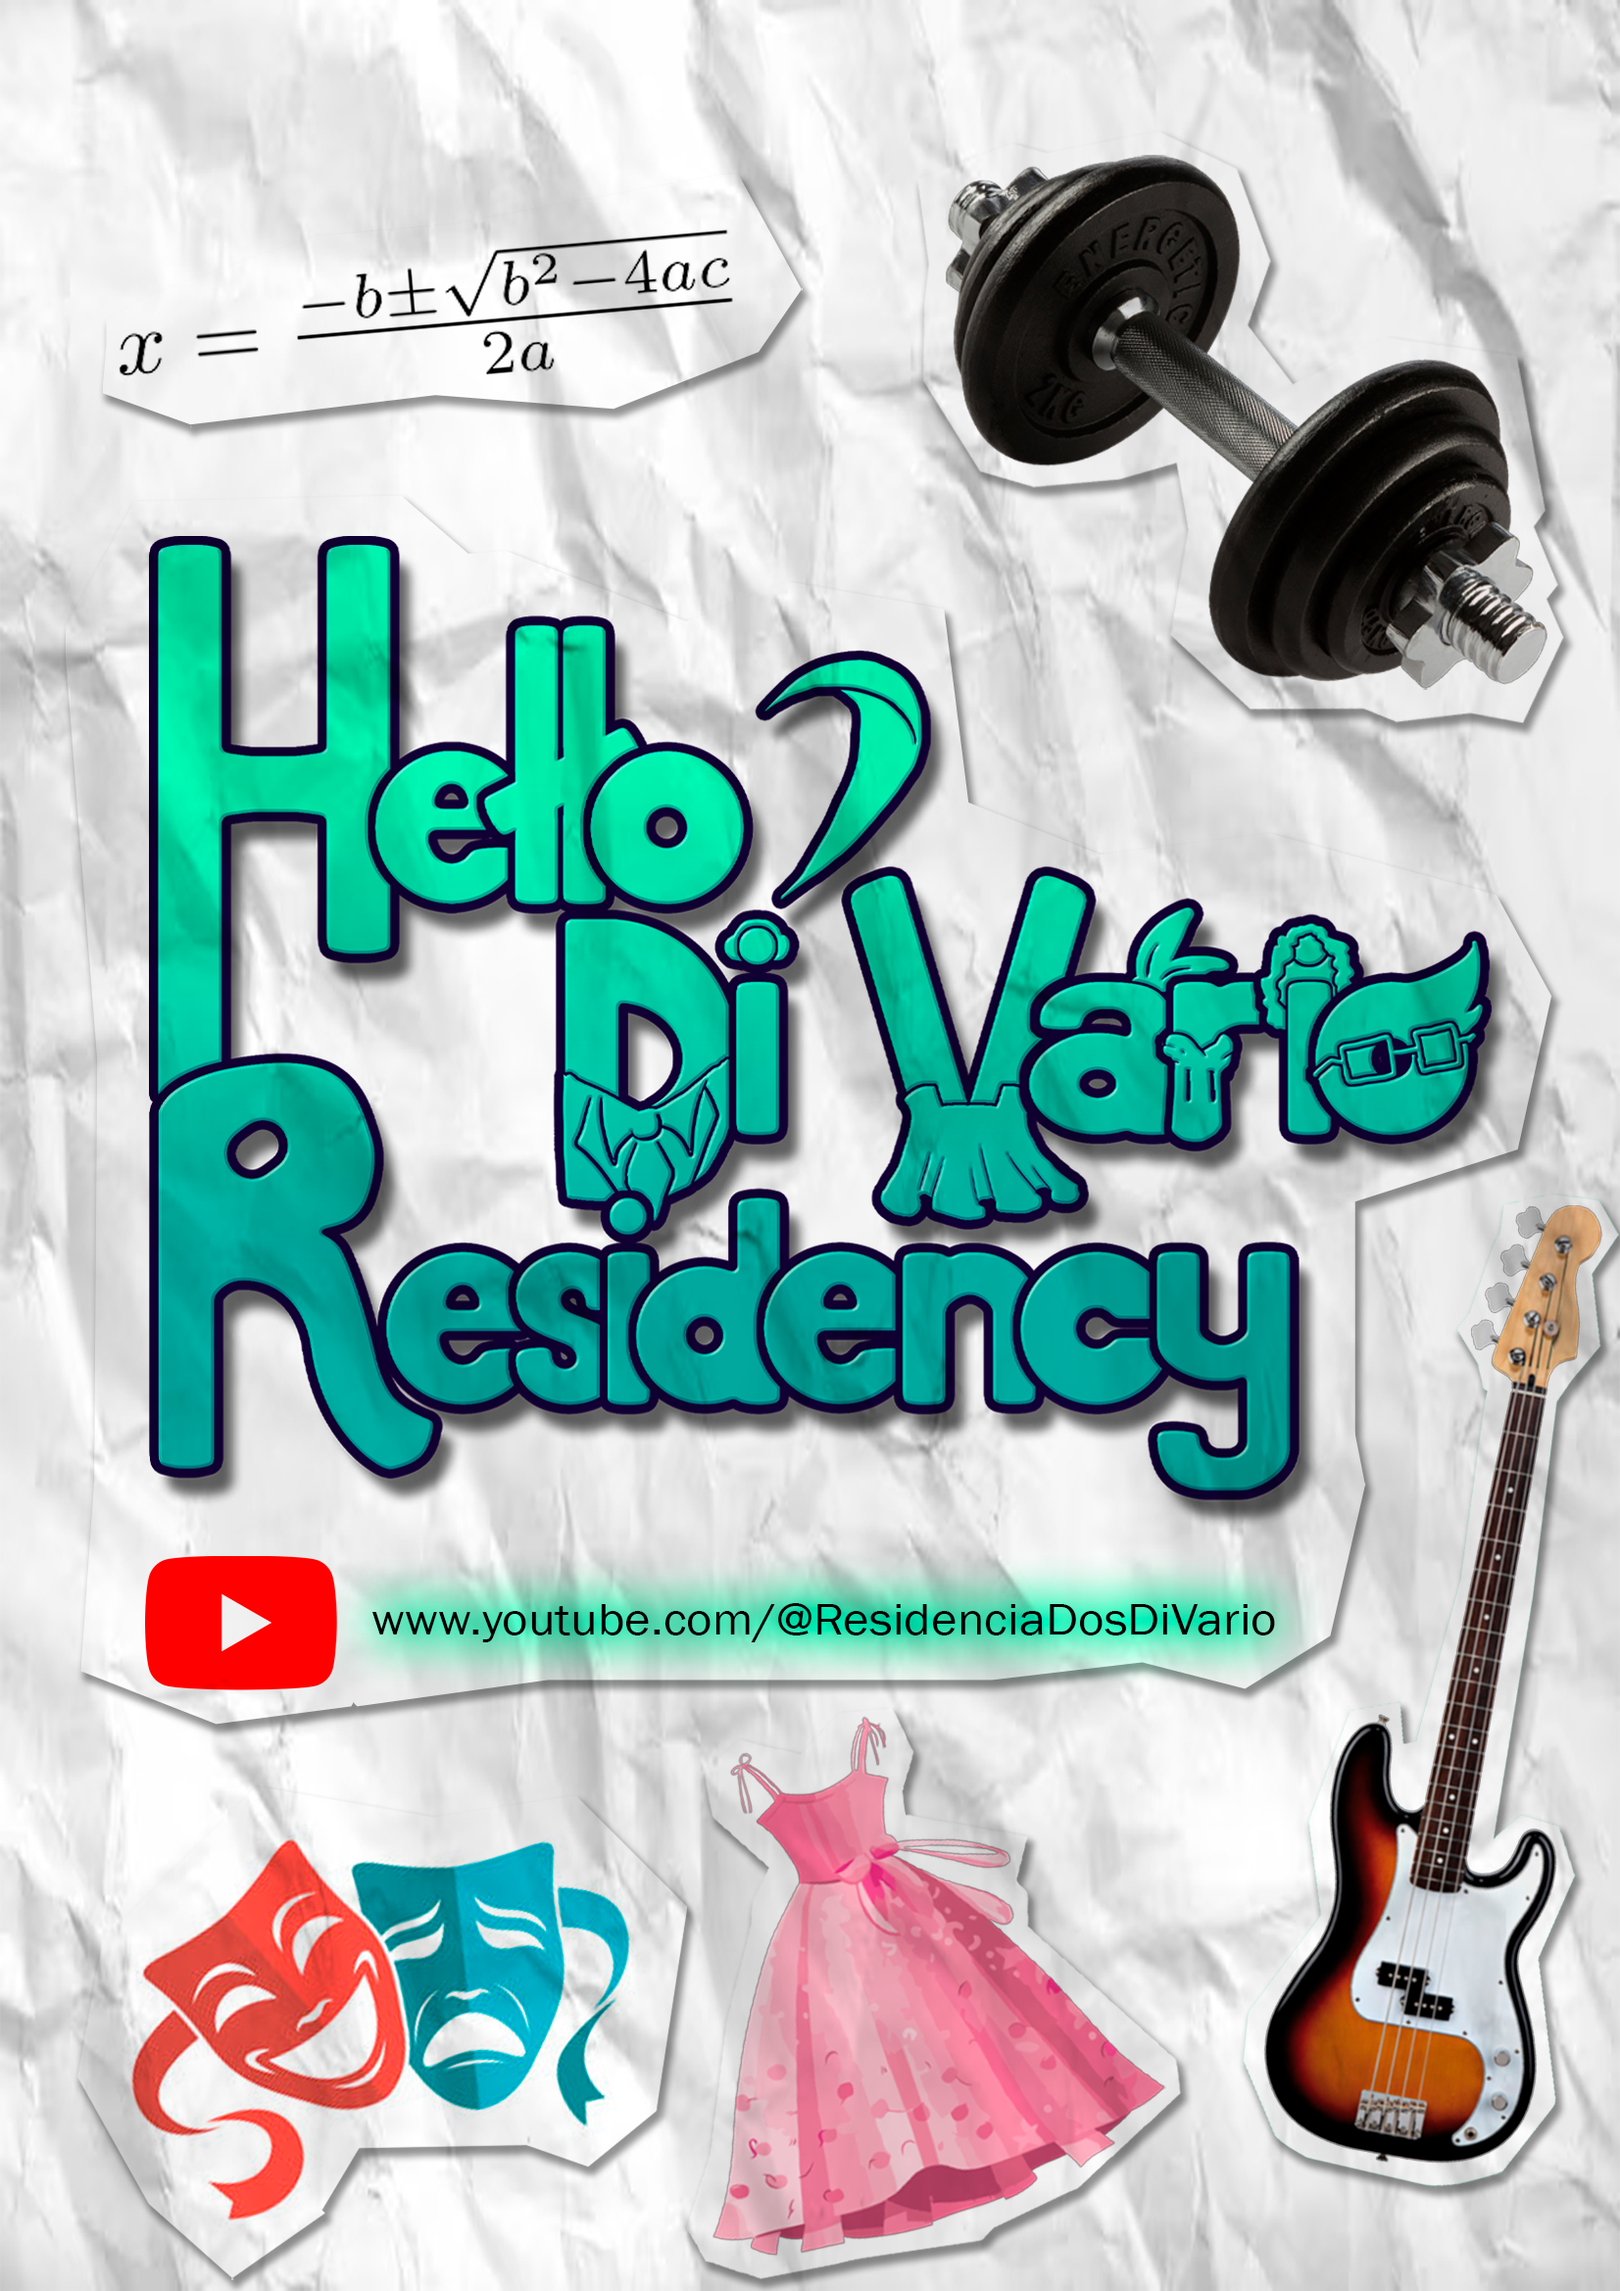
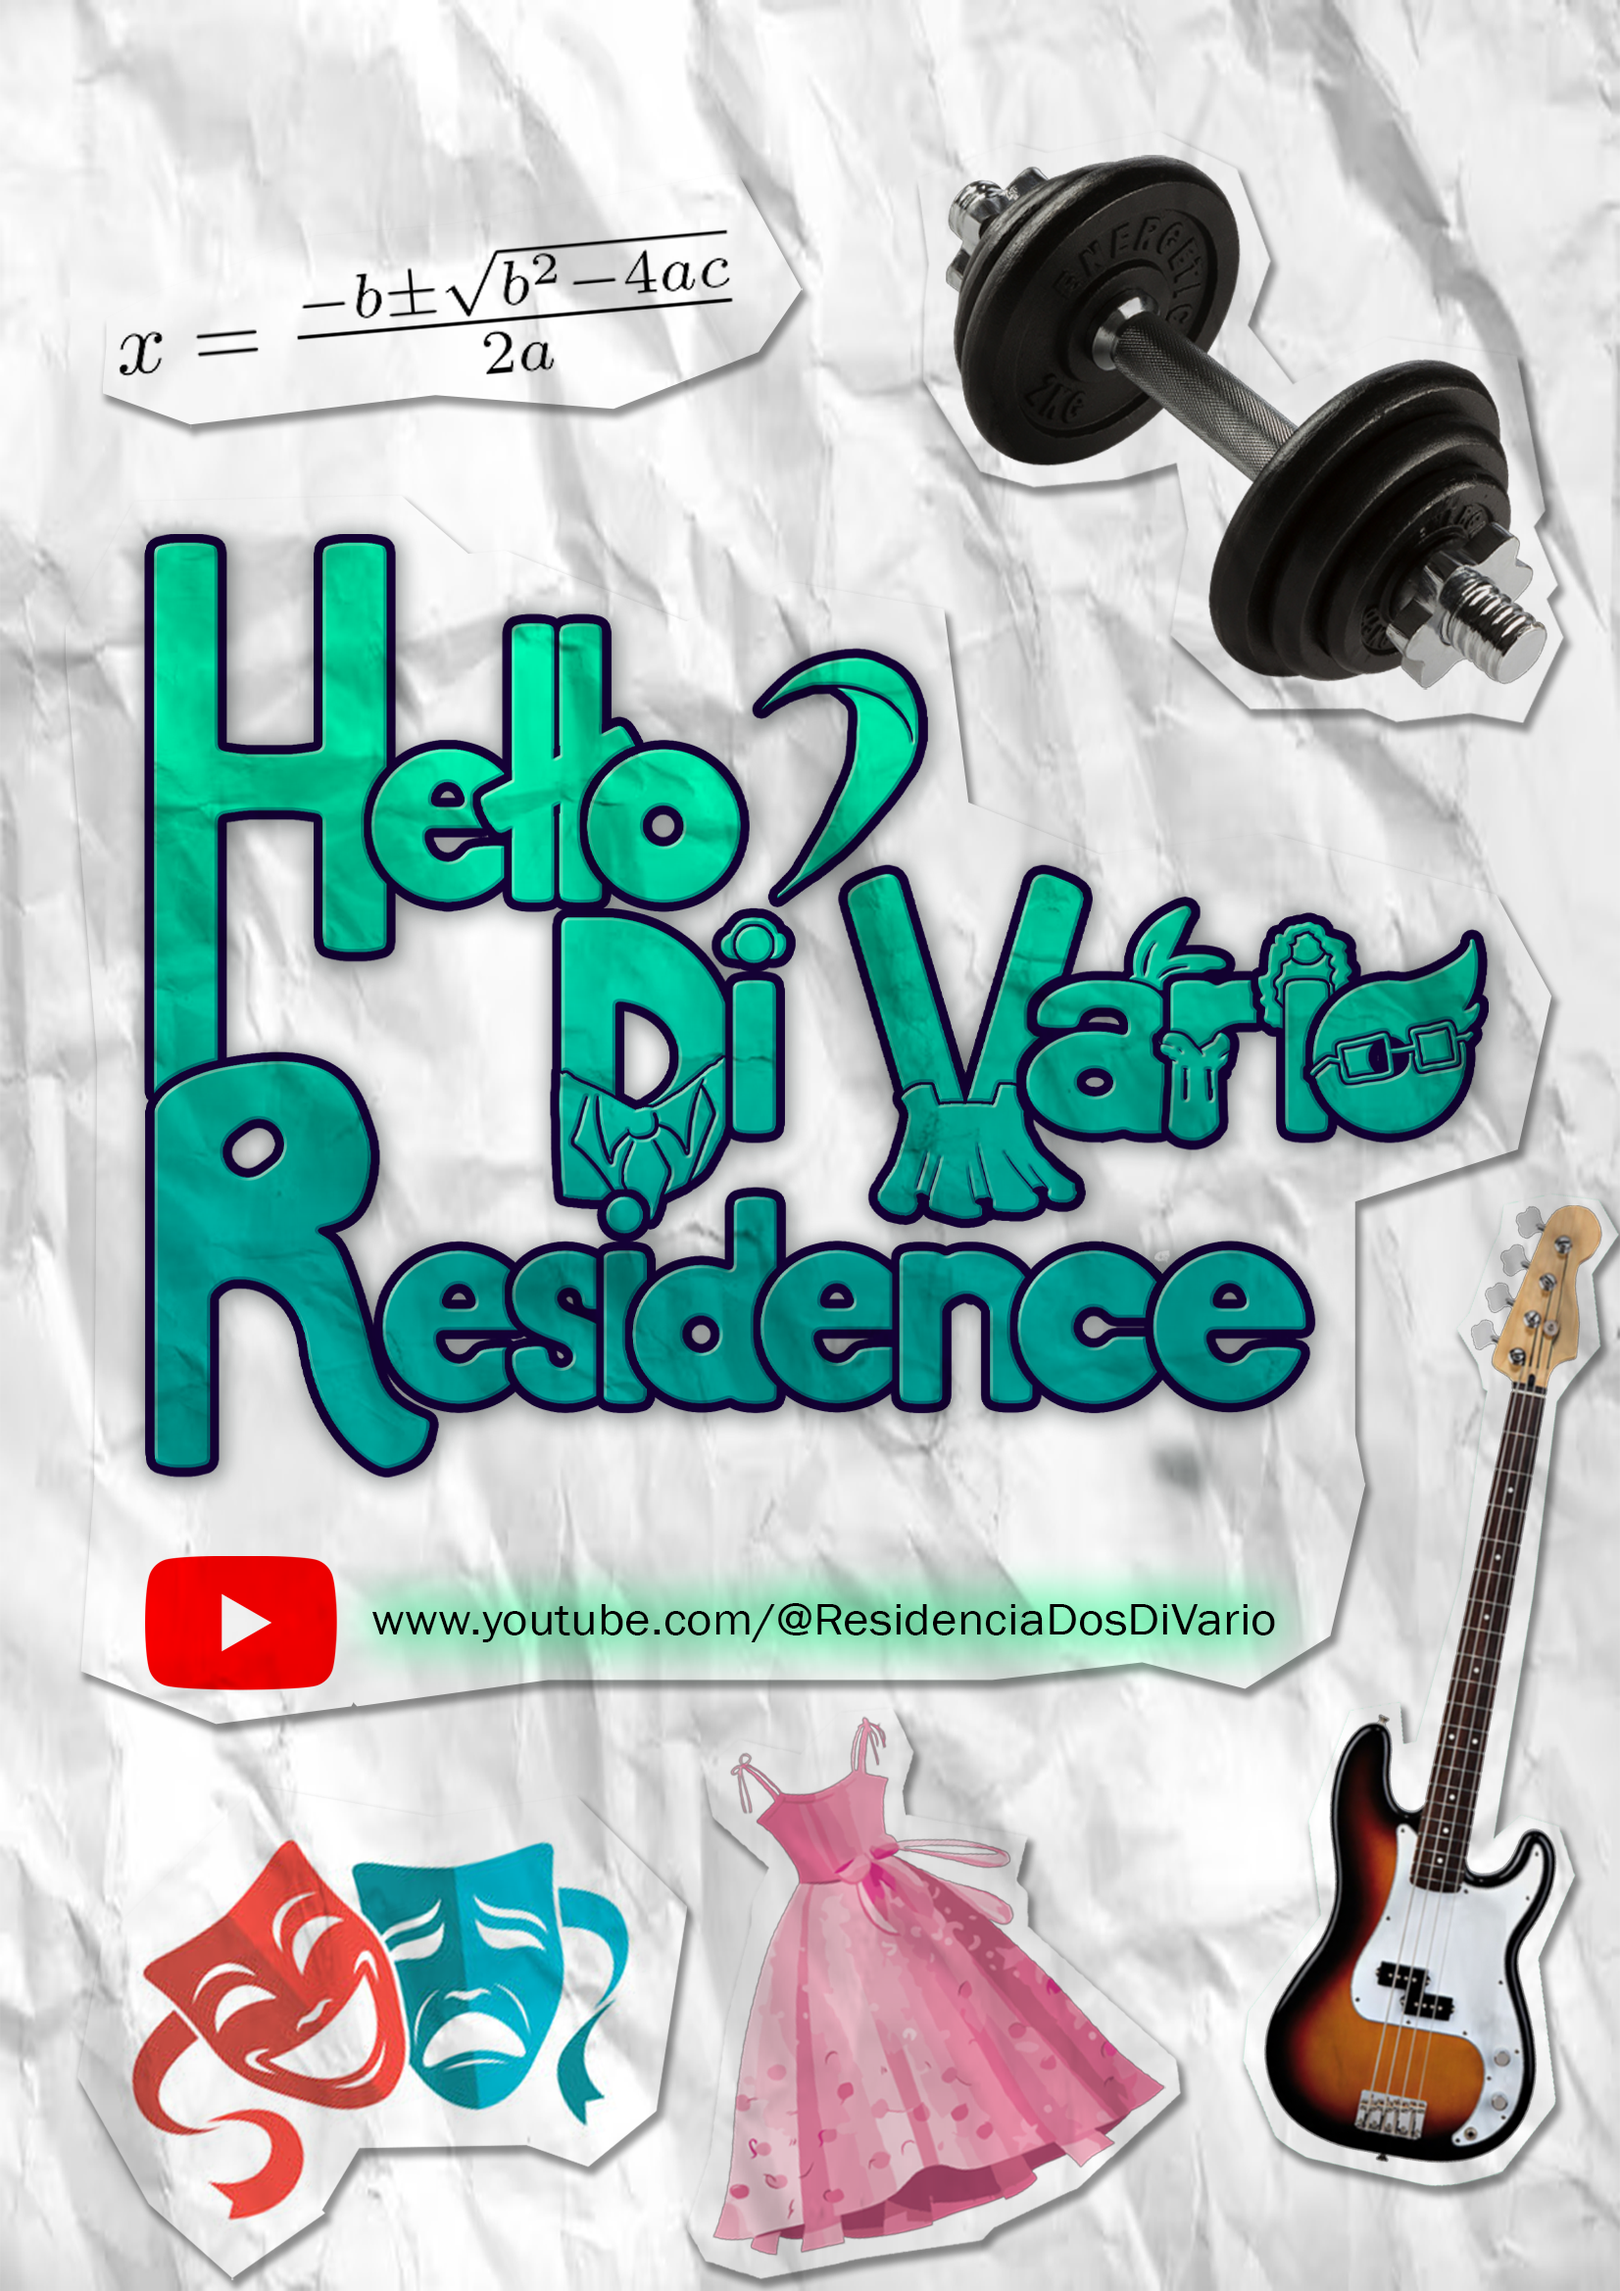
Capa nova de Alô? Residência dos Di Vario ("Residence") e título do cartão em inglês
Claude-Session: https://claude.ai/code/session_01CyzgedwNSXWfVwyTQknEPQ

diff --git a/index.html b/index.html
@@ -37,7 +37,7 @@
       <h2><span class="hc">Hate Cycle</span> stories</h2>
       <p>Here are the stories that are part of the <span class="hc">Hate Cycle</span> universe.</p>
       <div class="works">
-        <article class="work-card"><img src="covers/EN/Cover HDVR.png" alt="HDVR Cover" loading="lazy"><h3>Hello? Di Vario Residency</h3><p>The di Vario family is many things. "Normal" is not one of them!</p><a class="button" href="https://www.youtube.com/@ResidenciaDosDiVario" target="_blank" rel="noopener noreferrer"> Watch on YouTube </a></article>
+        <article class="work-card"><img src="covers/EN/Cover HDVR.png" alt="HDVR Cover" loading="lazy"><h3>Hello? Di Vario Residence</h3><p>The di Vario family is many things. "Normal" is not one of them!</p><a class="button" href="https://www.youtube.com/@ResidenciaDosDiVario" target="_blank" rel="noopener noreferrer"> Watch on YouTube </a></article>
         <article class="work-card"><img src="covers/EN/Cover Firestriker.png" alt="Cover Firestriker" loading="lazy"><h3>Firestriker</h3><p>Olivia Purinna is absolutely certain that dragons exist, and she’s determined to prove it no matter how disastrous her journey may be!</p><a class="button" href="firestriker.html" rel="noopener noreferrer"> Read Here </a></article>
         <article class="work-card"><img src="covers/EN/Cover Light &amp; Blood.png" alt="Cover Light &amp; Blood" loading="lazy"><h3>Light & Blood</h3><p>John Magnus & Oliver Mors investigate, alongside detective Eleanor O'Dochartaigh, the uneventful city of Duckwater.</p><a class="button" href="light.html" rel="noopener noreferrer"> Watch Here</a></article>
         <article class="work-card"><img src="covers/EN/Cover All in a Night&#x27;s Work.png" alt="Cover All in a Night&#x27;s Work" loading="lazy"><h3>All in a Night's Work</h3><p>Giuseppe di Vario deals with the hardships of working as an exorcist.</p><span class="button disabled">Coming soon</span></article>
